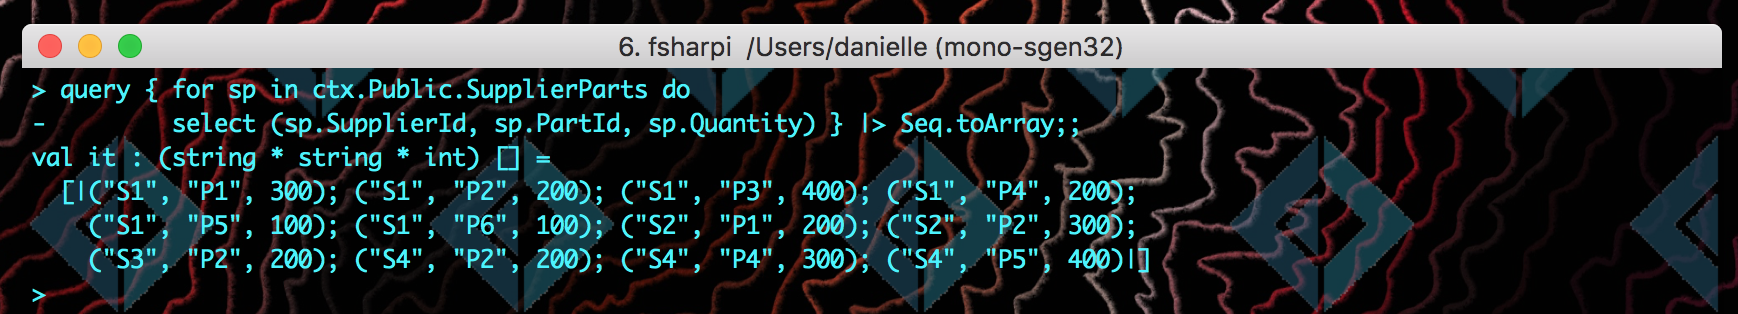
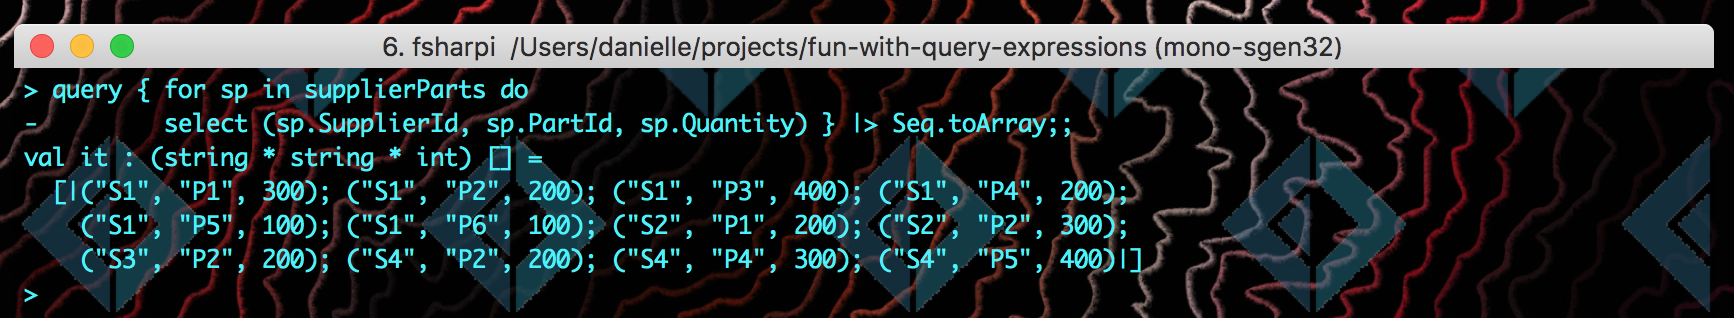
Fixed some obsolete example code and correspondent screen capture.

diff --git a/index.md b/index.md
@@ -137,7 +137,7 @@ let supplierParts = ctx.Public.SupplierParts
 Let's see if this query works first:
 
 ```
-query { for sp in ctx.Public.SupplierParts do
+query { for sp in supplierParts do
         select (sp.SupplierId, sp.PartId, sp.Quantity) }
 ```
 
